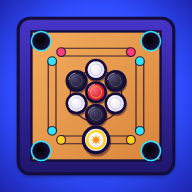
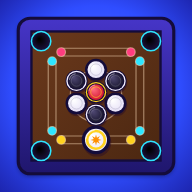
High-contrast board and pieces that read without colour
Switch the playing surface to dark walnut with quiet grain and soft
cream markings, so every piece stands out by brightness: white pucks
go from about 2:1 to 8-11:1 against the board. Black pucks get a bright
rim, the Queen a gold rim and a white crown (it looked like a black puck
to red-green colour-blind players), strikers a white rim, and pockets a
thicker bright ring. Rule messages move lower so they no longer cover
the callouts. HUD puck icon and app icon updated to match.

Claude-Session: https://claude.ai/code/session_01BbTA7rYtcFS9zppY6QcrWK

diff --git a/carrom-duel/game.html b/carrom-duel/game.html
@@ -38,7 +38,7 @@ body::after{content:"";position:fixed;inset:0;z-index:-1;pointer-events:none;bac
 .cnt small{font-size:14px;color:var(--muted)}
 .pk{width:14px;height:14px;border-radius:50%;display:inline-block;border:2.5px solid var(--line)}
 .pk.w{background:#fff}
-.pk.b{background:#2b2744}
+.pk.b{background:#2b2744;box-shadow:inset 0 0 0 2px #f6f1ff}
 .q{width:14px;height:14px;border-radius:50%;border:2.5px solid var(--queen);display:inline-block}
 .q.got{background:var(--queen);border-color:var(--line)}
 .q.pend{animation:blink 1s infinite}
@@ -47,7 +47,7 @@ body::after{content:"";position:fixed;inset:0;z-index:-1;pointer-events:none;bac
 .icon svg{width:26px;height:26px}
 .stage{position:relative;width:var(--w);height:var(--w);flex:none}
 canvas{display:block;width:100%;height:100%;touch-action:none;cursor:crosshair}
-.toast{position:absolute;left:50%;top:17%;transform:translate(-50%,-10px) rotate(-2deg) scale(.9);width:max-content;max-width:86%;padding:8px 18px 7px;border-radius:16px;background:#fff;color:var(--line);border:3px solid var(--line);box-shadow:0 5px 0 var(--line);font-size:19px;line-height:1.15;text-align:center;white-space:pre-line;text-wrap:balance;opacity:0;pointer-events:none;transition:opacity .15s,transform .25s cubic-bezier(.3,1.6,.5,1)}
+.toast{position:absolute;left:50%;top:55%;transform:translate(-50%,-10px) rotate(-2deg) scale(.9);width:max-content;max-width:86%;padding:8px 18px 7px;border-radius:16px;background:#fff;color:var(--line);border:3px solid var(--line);box-shadow:0 5px 0 var(--line);font-size:19px;line-height:1.15;text-align:center;white-space:pre-line;text-wrap:balance;opacity:0;pointer-events:none;transition:opacity .15s,transform .25s cubic-bezier(.3,1.6,.5,1)}
 .toast.show{opacity:1;transform:translate(-50%,0) rotate(-2deg) scale(1)}
 .slider{--acc:var(--you);position:relative;height:48px;touch-action:none;cursor:ew-resize}
 .slider .rail{position:absolute;left:0;right:0;top:50%;height:22px;margin-top:-11px;border-radius:11px;background:#221a6b;border:3px solid var(--line);box-shadow:inset 0 3px 0 rgba(0,0,0,.3);transition:background .2s}
@@ -143,7 +143,7 @@ details li{margin-bottom:6px}
       <p class="tag">You vs the bot. Pot 'em all. No Wi-Fi needed.</p>
       <div class="lbl out">Pick a game</div>
       <div class="tiles" id="segMode">
-        <button data-v="disc" style="--c:var(--cyan)"><svg viewBox="0 0 52 38"><circle cx="18" cy="21" r="12" fill="#fff" stroke="#140c3a" stroke-width="3"/><circle cx="18" cy="21" r="5.5" fill="none" stroke="#140c3a" stroke-opacity=".25" stroke-width="2"/><circle cx="34" cy="16" r="12" fill="#2b2744" stroke="#140c3a" stroke-width="3"/><circle cx="34" cy="16" r="5.5" fill="none" stroke="#fff" stroke-opacity=".3" stroke-width="2"/></svg>Disc Pool</button>
+        <button data-v="disc" style="--c:var(--cyan)"><svg viewBox="0 0 52 38"><circle cx="18" cy="21" r="12" fill="#fff" stroke="#140c3a" stroke-width="3"/><circle cx="18" cy="21" r="5.5" fill="none" stroke="#140c3a" stroke-opacity=".25" stroke-width="2"/><circle cx="34" cy="16" r="12" fill="#f6f1ff" stroke="#140c3a" stroke-width="3"/><circle cx="34" cy="16" r="8.2" fill="#2b2744" stroke="#140c3a" stroke-width="1.5"/><circle cx="34" cy="16" r="4.5" fill="none" stroke="#fff" stroke-opacity=".35" stroke-width="1.6"/></svg>Disc Pool</button>
         <button data-v="carrom" style="--c:var(--bot)"><svg viewBox="0 0 52 38"><circle cx="26" cy="24" r="12" fill="#ff2e4d" stroke="#140c3a" stroke-width="3"/><circle cx="26" cy="24" r="5" fill="#ffd21f" stroke="#140c3a" stroke-width="2"/><path d="M15 12l4.5 5 6.5-9 6.5 9 4.5-5-1.5 7.5h-19z" fill="#ffd21f" stroke="#140c3a" stroke-width="2.4" stroke-linejoin="round"/></svg>Carrom</button>
         <button data-v="free" style="--c:var(--lime)"><svg viewBox="0 0 52 38"><path d="M26 2l4.6 7.6 8.6-2.2-2.2 8.6L44.6 20.6l-7.6 4.6 2.2 8.6-8.6-2.2L26 39l-4.6-7.6-8.6 2.2 2.2-8.6-7.6-4.6 7.6-4.6-2.2-8.6 8.6 2.2z" transform="translate(0 -1) scale(1 .92)" fill="#fff" stroke="#140c3a" stroke-width="2.6" stroke-linejoin="round"/><text x="26" y="23" text-anchor="middle" font-family="Lilita One,system-ui" font-size="13" fill="#140c3a">+20</text></svg>Freestyle</button>
       </div>
@@ -597,31 +597,32 @@ function drawBoard(g){
     g.beginPath();g.arc(x,y,F*.25,0,7);g.fillStyle=c;g.fill();g.lineWidth=3;g.strokeStyle=LINE;g.stroke();
     g.beginPath();g.arc(x-F*.07,y-F*.08,F*.07,0,7);g.fillStyle='rgba(255,255,255,.75)';g.fill();
   }
-  // honey-wood playing surface: darker and warmer than the white pucks so they stand out
+  // dark walnut playing surface with quiet grain: every piece is far lighter than the board
+  // (or carries a light rim), so pieces stand out by brightness alone, not by colour
   g.save();g.beginPath();g.rect(0,0,S,S);g.clip();
-  const sg=g.createLinearGradient(0,0,S,S);sg.addColorStop(0,'#f2ac5e');sg.addColorStop(1,'#d9853b');g.fillStyle=sg;g.fillRect(0,0,S,S);
-  for(let i=0;i<18;i++){const y=R()*S;g.strokeStyle=`rgba(190,98,30,${.06+R()*.07})`;g.lineWidth=10+R()*24;g.beginPath();g.moveTo(0,y);for(let x=0;x<=S;x+=20)g.lineTo(x,y+Math.sin(x*.004+i)*10);g.stroke()}
-  for(let i=0;i<230;i++){
+  const sg=g.createLinearGradient(0,0,S,S);sg.addColorStop(0,'#6b391c');sg.addColorStop(1,'#4b2711');g.fillStyle=sg;g.fillRect(0,0,S,S);
+  for(let i=0;i<16;i++){const y=R()*S;g.strokeStyle=`rgba(30,10,2,${.07+R()*.07})`;g.lineWidth=10+R()*24;g.beginPath();g.moveTo(0,y);for(let x=0;x<=S;x+=20)g.lineTo(x,y+Math.sin(x*.004+i)*10);g.stroke()}
+  for(let i=0;i<150;i++){
     const y=R()*S,amp=R()*3,fq=.003+R()*.02,ph=R()*6;
-    g.strokeStyle=`rgba(140,66,16,${.05+R()*.11})`;g.lineWidth=.5+R()*1.6;g.beginPath();
+    g.strokeStyle=R()<.7?`rgba(25,8,0,${.07+R()*.1})`:`rgba(170,100,55,${.04+R()*.05})`;g.lineWidth=.5+R()*1.4;g.beginPath();
     for(let x=0;x<=S;x+=18){const w=y+Math.sin(x*fq+ph)*amp+Math.sin(x*.002+ph)*5;x?g.lineTo(x,w):g.moveTo(x,w)}
     g.stroke();
   }
-  const lg=g.createRadialGradient(S*.46,S*.38,10,S*.5,S*.5,S*.78);lg.addColorStop(0,'rgba(255,236,190,.2)');lg.addColorStop(1,'rgba(120,40,20,.16)');g.fillStyle=lg;g.fillRect(0,0,S,S);
-  const edge=(x0,y0,x1,y1,rx,ry,rw,rh)=>{const e=g.createLinearGradient(x0,y0,x1,y1);e.addColorStop(0,'rgba(40,12,50,.45)');e.addColorStop(1,'rgba(40,12,50,0)');g.fillStyle=e;g.fillRect(rx,ry,rw,rh)};
+  const lg=g.createRadialGradient(S*.46,S*.38,10,S*.5,S*.5,S*.78);lg.addColorStop(0,'rgba(255,200,150,.08)');lg.addColorStop(1,'rgba(0,0,0,.2)');g.fillStyle=lg;g.fillRect(0,0,S,S);
+  const edge=(x0,y0,x1,y1,rx,ry,rw,rh)=>{const e=g.createLinearGradient(x0,y0,x1,y1);e.addColorStop(0,'rgba(0,0,0,.45)');e.addColorStop(1,'rgba(0,0,0,0)');g.fillStyle=e;g.fillRect(rx,ry,rw,rh)};
   edge(0,0,0,18,0,0,S,18);edge(0,S,0,S-18,0,S-18,S,18);edge(0,0,18,0,0,0,18,S);edge(S,0,S-18,0,S-18,0,18,S);
-  // markings: bold ink lines, base circles in each side's colour
-  const INK='rgba(30,12,44,.85)',SIDE=['#ffd21f','#2ee6ff','#ff3d7f','#2ee6ff'];
-  g.strokeStyle=INK;g.lineWidth=3;g.lineCap='round';g.lineJoin='round';
+  // markings: soft cream lines that sit back behind the pieces; base circles in each side's colour
+  const INK='rgba(255,226,190,.42)',SIDE=['#ffd21f','#2ee6ff','#ff3d7f','#2ee6ff'];
+  g.strokeStyle=INK;g.lineWidth=2.6;g.lineCap='round';g.lineJoin='round';
   for(let r=0;r<4;r++){
     g.save();g.translate(S/2,S/2);g.rotate(r*Math.PI/2);g.translate(-S/2,-S/2);
     const yc=S-BOFF,y1=yc+BGAP,y2=yc-BGAP;
-    g.beginPath();g.moveTo(BMIN,y1);g.lineTo(BMAX,y1);g.moveTo(BMIN,y2);g.lineTo(BMAX,y2);g.strokeStyle=INK;g.lineWidth=3;g.stroke();
+    g.beginPath();g.moveTo(BMIN,y1);g.lineTo(BMAX,y1);g.moveTo(BMIN,y2);g.lineTo(BMAX,y2);g.strokeStyle=INK;g.lineWidth=2.6;g.stroke();
     for(const x of [BMIN,BMAX]){
-      g.beginPath();g.arc(x,yc,BGAP,0,7);g.fillStyle=SIDE[r];g.fill();g.strokeStyle=LINE;g.lineWidth=3;g.stroke();
-      g.beginPath();g.arc(x,yc,12,0,7);g.strokeStyle='rgba(255,255,255,.75)';g.lineWidth=2.2;g.stroke();
+      g.beginPath();g.arc(x,yc,BGAP,0,7);g.fillStyle=SIDE[r];g.globalAlpha=.8;g.fill();g.globalAlpha=1;g.strokeStyle=LINE;g.lineWidth=3;g.stroke();
+      g.beginPath();g.arc(x,yc,12,0,7);g.strokeStyle='rgba(20,12,58,.5)';g.lineWidth=2.2;g.stroke();
     }
-    g.strokeStyle=INK;g.lineWidth=3;
+    g.strokeStyle=INK;g.lineWidth=2.6;
     const ux=Math.SQRT1_2,uy=-Math.SQRT1_2,ax=ux*112,ay=S+uy*112,bx=ux*335,by=S+uy*335;
     g.beginPath();g.moveTo(ax,ay);g.lineTo(bx,by);g.stroke();
     g.beginPath();g.moveTo(ax+ux*16+uy*10,ay+uy*16-ux*10);g.lineTo(ax,ay);g.lineTo(ax+ux*16-uy*10,ay+uy*16+ux*10);g.stroke();
@@ -629,14 +630,14 @@ function drawBoard(g){
     g.restore();
   }
   const c=S/2;
-  g.beginPath();g.arc(c,c,128,0,7);g.lineWidth=3.5;g.strokeStyle=INK;g.stroke();
-  g.beginPath();g.arc(c,c,120,0,7);g.lineWidth=1.6;g.stroke();
+  g.beginPath();g.arc(c,c,128,0,7);g.lineWidth=3;g.strokeStyle=INK;g.stroke();
+  g.beginPath();g.arc(c,c,120,0,7);g.lineWidth=1.4;g.stroke();
   for(let i=0;i<12;i++){
     const a0=i*Math.PI/6,a1=a0+Math.PI/12,a2=a0+Math.PI/6,r0=26,r1=112;
     g.beginPath();g.moveTo(c+Math.cos(a0)*r0,c+Math.sin(a0)*r0);g.lineTo(c+Math.cos(a1)*r1,c+Math.sin(a1)*r1);g.lineTo(c+Math.cos(a2)*r0,c+Math.sin(a2)*r0);g.closePath();
-    g.fillStyle=i%2?'rgba(255,61,127,.32)':'rgba(255,255,255,.4)';g.fill();g.lineWidth=1.6;g.strokeStyle=INK;g.stroke();
+    g.fillStyle=i%2?'rgba(255,61,127,.10)':'rgba(255,226,190,.06)';g.fill();g.lineWidth=1.4;g.strokeStyle='rgba(255,226,190,.3)';g.stroke();
   }
-  g.beginPath();g.arc(c,c,PR,0,7);g.fillStyle='#ff2e4d';g.fill();g.lineWidth=3;g.strokeStyle=LINE;g.stroke();
+  g.beginPath();g.arc(c,c,PR*.7,0,7);g.strokeStyle=INK;g.lineWidth=2.2;g.stroke();
   g.beginPath();g.rect(0,0,S,S);g.lineWidth=5;g.strokeStyle=LINE;g.stroke();
   g.restore();
   // pockets with a neon rim
@@ -648,36 +649,44 @@ function drawBoard(g){
     for(let k=-50;k<=50;k+=7){g.beginPath();g.moveTo(px+k-50,py-50);g.lineTo(px+k+50,py+50);g.stroke();g.beginPath();g.moveTo(px+k+50,py-50);g.lineTo(px+k-50,py+50);g.stroke()}
     g.restore();
     g.beginPath();g.arc(px,py,PK+1,0,7);g.lineWidth=4;g.strokeStyle=LINE;g.stroke();
-    g.beginPath();g.arc(px,py,PK+4.5,0,7);g.lineWidth=3;g.strokeStyle='rgba(46,230,255,.9)';g.stroke();
+    g.beginPath();g.arc(px,py,PK+5,0,7);g.lineWidth=4.5;g.strokeStyle='#2ee6ff';g.stroke();
   }
 }
+// Every piece reads by brightness, never by colour alone: white pucks are bright with a thick dark outline,
+// black pucks carry a bright rim, the Queen has a gold rim and a crown, strikers a white rim and a symbol.
 const PAL={
-  w:{a:'#ffffff',b:'#e4def6',g:'rgba(20,12,58,.22)'},
-  b:{a:'#4d4670',b:'#16132a',g:'rgba(255,255,255,.24)'},
-  q:{a:'#ff6b7d',b:'#d0102c',g:'#ffd21f'},
-  s0:{a:'#ffffff',b:'#ebe6f8',g:'#ffd21f',star:'#ff8f00'},
-  s1:{a:'#ffffff',b:'#ebe6f8',g:'#ff3d7f',star:'#c2185b'}};
+  w:{a:'#ffffff',b:'#e9e5f7',g:'rgba(20,12,58,.28)'},
+  b:{a:'#4d4670',b:'#16132a',g:'rgba(255,255,255,.3)',rim:'#f6f1ff'},
+  q:{a:'#ff6b7d',b:'#d0102c',g:'#ffd21f',rim:'#ffd21f'},
+  s0:{a:'#ffffff',b:'#ebe6f8',g:'#ffd21f',star:'#ff8f00',rim:'#ffffff'},
+  s1:{a:'#ffffff',b:'#ebe6f8',g:'#ff3d7f',star:'#c2185b',rim:'#ffffff'}};
 function sprite(kind){
   const r=kind[0]==='s'?SR:PR,pad=7,size=Math.ceil((r+pad)*2*K),c=document.createElement('canvas');
-  c.width=c.height=size;const x=c.getContext('2d'),p=PAL[kind],LINE='#140c3a',ri=r-Math.max(2.8,r*.15);
+  c.width=c.height=size;const x=c.getContext('2d'),p=PAL[kind],LINE='#140c3a',ow=Math.max(1.4,r*.07);
   x.scale(size/((r+pad)*2),size/((r+pad)*2));x.translate(r+pad,r+pad);
-  x.beginPath();x.arc(1.3,3.4,r,0,7);x.fillStyle='rgba(40,12,40,.45)';x.fill();
+  x.beginPath();x.arc(1.3,3.4,r,0,7);x.fillStyle='rgba(0,0,0,.5)';x.fill();
   x.beginPath();x.arc(0,0,r,0,7);x.fillStyle=LINE;x.fill();
+  let ri;
+  if(p.rim){x.beginPath();x.arc(0,0,r-ow,0,7);x.fillStyle=p.rim;x.fill();ri=r-ow-r*.17;x.beginPath();x.arc(0,0,ri+.9,0,7);x.fillStyle=LINE;x.fill()}
+  else ri=r-Math.max(3.2,r*.17);
   const gr=x.createRadialGradient(-ri*.35,-ri*.4,ri*.1,0,0,ri);gr.addColorStop(0,p.a);gr.addColorStop(1,p.b);
   x.beginPath();x.arc(0,0,ri,0,7);x.fillStyle=gr;x.fill();
   if(kind[0]==='s'){
-    x.beginPath();x.arc(0,0,ri*.74,0,7);x.lineWidth=ri*.3;x.strokeStyle=p.g;x.stroke();
+    x.beginPath();x.arc(0,0,ri*.72,0,7);x.lineWidth=ri*.32;x.strokeStyle=p.g;x.stroke();
     x.lineWidth=1.3;x.strokeStyle=LINE;
-    x.beginPath();x.arc(0,0,ri*.89,0,7);x.stroke();x.beginPath();x.arc(0,0,ri*.59,0,7);x.stroke();
+    x.beginPath();x.arc(0,0,ri*.88,0,7);x.stroke();x.beginPath();x.arc(0,0,ri*.56,0,7);x.stroke();
     x.beginPath();
     if(kind==='s0')for(let i=0;i<10;i++){const a=i*Math.PI/5-Math.PI/2,q=i%2?ri*.2:ri*.46;x.lineTo(Math.cos(a)*q,Math.sin(a)*q)}
     else [[.12,-.5],[-.26,.07],[-.02,.07],[-.13,.5],[.26,-.07],[.02,-.07]].forEach(([a,b])=>x.lineTo(a*ri,b*ri));
     x.closePath();x.fillStyle=p.star;x.fill();x.lineWidth=1.1;x.stroke();
+  }else if(kind==='q'){
+    // crown: tells the Queen apart even when red looks dark
+    x.beginPath();[[-.62,.36],[-.7,-.3],[-.33,-.02],[0,-.5],[.33,-.02],[.7,-.3],[.62,.36]].forEach(([a,b],i)=>i?x.lineTo(a*ri,b*ri):x.moveTo(a*ri,b*ri));x.closePath();
+    x.fillStyle='#fff';x.fill();x.lineJoin='round';x.lineWidth=1.3;x.strokeStyle=LINE;x.stroke();
   }else{
-    x.strokeStyle=p.g;x.lineWidth=ri*.09;x.beginPath();x.arc(0,0,ri*.6,0,7);x.stroke();
-    if(kind==='q'){x.lineWidth=ri*.14;x.beginPath();x.arc(0,0,ri*.6,0,7);x.stroke();x.beginPath();x.arc(0,0,ri*.22,0,7);x.fillStyle=p.g;x.fill()}
+    x.strokeStyle=p.g;x.lineWidth=ri*.1;x.beginPath();x.arc(0,0,ri*.58,0,7);x.stroke();
   }
-  x.beginPath();x.arc(0,0,ri*.8,Math.PI*1.06,Math.PI*1.44);x.lineWidth=ri*.12;x.lineCap='round';x.strokeStyle='rgba(255,255,255,.75)';x.stroke();
+  if(kind!=='q'){x.beginPath();x.arc(0,0,ri*.8,Math.PI*1.06,Math.PI*1.44);x.lineWidth=ri*.12;x.lineCap='round';x.strokeStyle='rgba(255,255,255,.75)';x.stroke()}
   return {c,half:r+pad};
 }
 function layout(){
@@ -1008,7 +1017,7 @@ function draw(t){
     const fx=clamp(f.x,44,S-44),fy=clamp(f.y,44,S-44)-e*44;ctx.lineWidth=9;ctx.strokeStyle='#140c3a';ctx.strokeText(f.t,fx,fy);ctx.fillStyle=f.c;ctx.fillText(f.t,fx,fy);ctx.restore();return true});
   calls=calls.filter(c=>{const e=(t-c.t0)/1000;if(e>=1.35)return false;
     const sc=RM?1:e<.24?Math.max(.01,easeBack(e/.24)):1,al=e>1.05?1-(e-1.05)/.3:1;
-    ctx.save();ctx.globalAlpha=al;ctx.translate(S/2,S*.37-(e>1.05?(e-1.05)*50:0));ctx.rotate(-.06);ctx.scale(sc,sc);
+    ctx.save();ctx.globalAlpha=al;ctx.translate(S/2,S*.3-(e>1.05?(e-1.05)*50:0));ctx.rotate(-.06);ctx.scale(sc,sc);
     ctx.font=`${c.size}px "Lilita One","Baloo 2",system-ui,sans-serif`;
     ctx.lineWidth=c.size*.26;ctx.strokeStyle='#140c3a';ctx.strokeText(c.text,0,c.size*.08);ctx.strokeText(c.text,0,0);
     ctx.fillStyle=c.color;ctx.fillText(c.text,0,0);ctx.restore();return true});

diff --git a/carrom-duel/index.html b/carrom-duel/index.html
@@ -50,7 +50,7 @@ body::after{content:"";position:fixed;inset:0;z-index:-1;pointer-events:none;bac
 .cnt small{font-size:14px;color:var(--muted)}
 .pk{width:14px;height:14px;border-radius:50%;display:inline-block;border:2.5px solid var(--line)}
 .pk.w{background:#fff}
-.pk.b{background:#2b2744}
+.pk.b{background:#2b2744;box-shadow:inset 0 0 0 2px #f6f1ff}
 .q{width:14px;height:14px;border-radius:50%;border:2.5px solid var(--queen);display:inline-block}
 .q.got{background:var(--queen);border-color:var(--line)}
 .q.pend{animation:blink 1s infinite}
@@ -59,7 +59,7 @@ body::after{content:"";position:fixed;inset:0;z-index:-1;pointer-events:none;bac
 .icon svg{width:26px;height:26px}
 .stage{position:relative;width:var(--w);height:var(--w);flex:none}
 canvas{display:block;width:100%;height:100%;touch-action:none;cursor:crosshair}
-.toast{position:absolute;left:50%;top:17%;transform:translate(-50%,-10px) rotate(-2deg) scale(.9);width:max-content;max-width:86%;padding:8px 18px 7px;border-radius:16px;background:#fff;color:var(--line);border:3px solid var(--line);box-shadow:0 5px 0 var(--line);font-size:19px;line-height:1.15;text-align:center;white-space:pre-line;text-wrap:balance;opacity:0;pointer-events:none;transition:opacity .15s,transform .25s cubic-bezier(.3,1.6,.5,1)}
+.toast{position:absolute;left:50%;top:55%;transform:translate(-50%,-10px) rotate(-2deg) scale(.9);width:max-content;max-width:86%;padding:8px 18px 7px;border-radius:16px;background:#fff;color:var(--line);border:3px solid var(--line);box-shadow:0 5px 0 var(--line);font-size:19px;line-height:1.15;text-align:center;white-space:pre-line;text-wrap:balance;opacity:0;pointer-events:none;transition:opacity .15s,transform .25s cubic-bezier(.3,1.6,.5,1)}
 .toast.show{opacity:1;transform:translate(-50%,0) rotate(-2deg) scale(1)}
 .slider{--acc:var(--you);position:relative;height:48px;touch-action:none;cursor:ew-resize}
 .slider .rail{position:absolute;left:0;right:0;top:50%;height:22px;margin-top:-11px;border-radius:11px;background:#221a6b;border:3px solid var(--line);box-shadow:inset 0 3px 0 rgba(0,0,0,.3);transition:background .2s}
@@ -156,7 +156,7 @@ details li{margin-bottom:6px}
       <p class="tag">You vs the bot. Pot 'em all. No Wi-Fi needed.</p>
       <div class="lbl out">Pick a game</div>
       <div class="tiles" id="segMode">
-        <button data-v="disc" style="--c:var(--cyan)"><svg viewBox="0 0 52 38"><circle cx="18" cy="21" r="12" fill="#fff" stroke="#140c3a" stroke-width="3"/><circle cx="18" cy="21" r="5.5" fill="none" stroke="#140c3a" stroke-opacity=".25" stroke-width="2"/><circle cx="34" cy="16" r="12" fill="#2b2744" stroke="#140c3a" stroke-width="3"/><circle cx="34" cy="16" r="5.5" fill="none" stroke="#fff" stroke-opacity=".3" stroke-width="2"/></svg>Disc Pool</button>
+        <button data-v="disc" style="--c:var(--cyan)"><svg viewBox="0 0 52 38"><circle cx="18" cy="21" r="12" fill="#fff" stroke="#140c3a" stroke-width="3"/><circle cx="18" cy="21" r="5.5" fill="none" stroke="#140c3a" stroke-opacity=".25" stroke-width="2"/><circle cx="34" cy="16" r="12" fill="#f6f1ff" stroke="#140c3a" stroke-width="3"/><circle cx="34" cy="16" r="8.2" fill="#2b2744" stroke="#140c3a" stroke-width="1.5"/><circle cx="34" cy="16" r="4.5" fill="none" stroke="#fff" stroke-opacity=".35" stroke-width="1.6"/></svg>Disc Pool</button>
         <button data-v="carrom" style="--c:var(--bot)"><svg viewBox="0 0 52 38"><circle cx="26" cy="24" r="12" fill="#ff2e4d" stroke="#140c3a" stroke-width="3"/><circle cx="26" cy="24" r="5" fill="#ffd21f" stroke="#140c3a" stroke-width="2"/><path d="M15 12l4.5 5 6.5-9 6.5 9 4.5-5-1.5 7.5h-19z" fill="#ffd21f" stroke="#140c3a" stroke-width="2.4" stroke-linejoin="round"/></svg>Carrom</button>
         <button data-v="free" style="--c:var(--lime)"><svg viewBox="0 0 52 38"><path d="M26 2l4.6 7.6 8.6-2.2-2.2 8.6L44.6 20.6l-7.6 4.6 2.2 8.6-8.6-2.2L26 39l-4.6-7.6-8.6 2.2 2.2-8.6-7.6-4.6 7.6-4.6-2.2-8.6 8.6 2.2z" transform="translate(0 -1) scale(1 .92)" fill="#fff" stroke="#140c3a" stroke-width="2.6" stroke-linejoin="round"/><text x="26" y="23" text-anchor="middle" font-family="Lilita One,system-ui" font-size="13" fill="#140c3a">+20</text></svg>Freestyle</button>
       </div>
@@ -610,31 +610,32 @@ function drawBoard(g){
     g.beginPath();g.arc(x,y,F*.25,0,7);g.fillStyle=c;g.fill();g.lineWidth=3;g.strokeStyle=LINE;g.stroke();
     g.beginPath();g.arc(x-F*.07,y-F*.08,F*.07,0,7);g.fillStyle='rgba(255,255,255,.75)';g.fill();
   }
-  // honey-wood playing surface: darker and warmer than the white pucks so they stand out
+  // dark walnut playing surface with quiet grain: every piece is far lighter than the board
+  // (or carries a light rim), so pieces stand out by brightness alone, not by colour
   g.save();g.beginPath();g.rect(0,0,S,S);g.clip();
-  const sg=g.createLinearGradient(0,0,S,S);sg.addColorStop(0,'#f2ac5e');sg.addColorStop(1,'#d9853b');g.fillStyle=sg;g.fillRect(0,0,S,S);
-  for(let i=0;i<18;i++){const y=R()*S;g.strokeStyle=`rgba(190,98,30,${.06+R()*.07})`;g.lineWidth=10+R()*24;g.beginPath();g.moveTo(0,y);for(let x=0;x<=S;x+=20)g.lineTo(x,y+Math.sin(x*.004+i)*10);g.stroke()}
-  for(let i=0;i<230;i++){
+  const sg=g.createLinearGradient(0,0,S,S);sg.addColorStop(0,'#6b391c');sg.addColorStop(1,'#4b2711');g.fillStyle=sg;g.fillRect(0,0,S,S);
+  for(let i=0;i<16;i++){const y=R()*S;g.strokeStyle=`rgba(30,10,2,${.07+R()*.07})`;g.lineWidth=10+R()*24;g.beginPath();g.moveTo(0,y);for(let x=0;x<=S;x+=20)g.lineTo(x,y+Math.sin(x*.004+i)*10);g.stroke()}
+  for(let i=0;i<150;i++){
     const y=R()*S,amp=R()*3,fq=.003+R()*.02,ph=R()*6;
-    g.strokeStyle=`rgba(140,66,16,${.05+R()*.11})`;g.lineWidth=.5+R()*1.6;g.beginPath();
+    g.strokeStyle=R()<.7?`rgba(25,8,0,${.07+R()*.1})`:`rgba(170,100,55,${.04+R()*.05})`;g.lineWidth=.5+R()*1.4;g.beginPath();
     for(let x=0;x<=S;x+=18){const w=y+Math.sin(x*fq+ph)*amp+Math.sin(x*.002+ph)*5;x?g.lineTo(x,w):g.moveTo(x,w)}
     g.stroke();
   }
-  const lg=g.createRadialGradient(S*.46,S*.38,10,S*.5,S*.5,S*.78);lg.addColorStop(0,'rgba(255,236,190,.2)');lg.addColorStop(1,'rgba(120,40,20,.16)');g.fillStyle=lg;g.fillRect(0,0,S,S);
-  const edge=(x0,y0,x1,y1,rx,ry,rw,rh)=>{const e=g.createLinearGradient(x0,y0,x1,y1);e.addColorStop(0,'rgba(40,12,50,.45)');e.addColorStop(1,'rgba(40,12,50,0)');g.fillStyle=e;g.fillRect(rx,ry,rw,rh)};
+  const lg=g.createRadialGradient(S*.46,S*.38,10,S*.5,S*.5,S*.78);lg.addColorStop(0,'rgba(255,200,150,.08)');lg.addColorStop(1,'rgba(0,0,0,.2)');g.fillStyle=lg;g.fillRect(0,0,S,S);
+  const edge=(x0,y0,x1,y1,rx,ry,rw,rh)=>{const e=g.createLinearGradient(x0,y0,x1,y1);e.addColorStop(0,'rgba(0,0,0,.45)');e.addColorStop(1,'rgba(0,0,0,0)');g.fillStyle=e;g.fillRect(rx,ry,rw,rh)};
   edge(0,0,0,18,0,0,S,18);edge(0,S,0,S-18,0,S-18,S,18);edge(0,0,18,0,0,0,18,S);edge(S,0,S-18,0,S-18,0,18,S);
-  // markings: bold ink lines, base circles in each side's colour
-  const INK='rgba(30,12,44,.85)',SIDE=['#ffd21f','#2ee6ff','#ff3d7f','#2ee6ff'];
-  g.strokeStyle=INK;g.lineWidth=3;g.lineCap='round';g.lineJoin='round';
+  // markings: soft cream lines that sit back behind the pieces; base circles in each side's colour
+  const INK='rgba(255,226,190,.42)',SIDE=['#ffd21f','#2ee6ff','#ff3d7f','#2ee6ff'];
+  g.strokeStyle=INK;g.lineWidth=2.6;g.lineCap='round';g.lineJoin='round';
   for(let r=0;r<4;r++){
     g.save();g.translate(S/2,S/2);g.rotate(r*Math.PI/2);g.translate(-S/2,-S/2);
     const yc=S-BOFF,y1=yc+BGAP,y2=yc-BGAP;
-    g.beginPath();g.moveTo(BMIN,y1);g.lineTo(BMAX,y1);g.moveTo(BMIN,y2);g.lineTo(BMAX,y2);g.strokeStyle=INK;g.lineWidth=3;g.stroke();
+    g.beginPath();g.moveTo(BMIN,y1);g.lineTo(BMAX,y1);g.moveTo(BMIN,y2);g.lineTo(BMAX,y2);g.strokeStyle=INK;g.lineWidth=2.6;g.stroke();
     for(const x of [BMIN,BMAX]){
-      g.beginPath();g.arc(x,yc,BGAP,0,7);g.fillStyle=SIDE[r];g.fill();g.strokeStyle=LINE;g.lineWidth=3;g.stroke();
-      g.beginPath();g.arc(x,yc,12,0,7);g.strokeStyle='rgba(255,255,255,.75)';g.lineWidth=2.2;g.stroke();
+      g.beginPath();g.arc(x,yc,BGAP,0,7);g.fillStyle=SIDE[r];g.globalAlpha=.8;g.fill();g.globalAlpha=1;g.strokeStyle=LINE;g.lineWidth=3;g.stroke();
+      g.beginPath();g.arc(x,yc,12,0,7);g.strokeStyle='rgba(20,12,58,.5)';g.lineWidth=2.2;g.stroke();
     }
-    g.strokeStyle=INK;g.lineWidth=3;
+    g.strokeStyle=INK;g.lineWidth=2.6;
     const ux=Math.SQRT1_2,uy=-Math.SQRT1_2,ax=ux*112,ay=S+uy*112,bx=ux*335,by=S+uy*335;
     g.beginPath();g.moveTo(ax,ay);g.lineTo(bx,by);g.stroke();
     g.beginPath();g.moveTo(ax+ux*16+uy*10,ay+uy*16-ux*10);g.lineTo(ax,ay);g.lineTo(ax+ux*16-uy*10,ay+uy*16+ux*10);g.stroke();
@@ -642,14 +643,14 @@ function drawBoard(g){
     g.restore();
   }
   const c=S/2;
-  g.beginPath();g.arc(c,c,128,0,7);g.lineWidth=3.5;g.strokeStyle=INK;g.stroke();
-  g.beginPath();g.arc(c,c,120,0,7);g.lineWidth=1.6;g.stroke();
+  g.beginPath();g.arc(c,c,128,0,7);g.lineWidth=3;g.strokeStyle=INK;g.stroke();
+  g.beginPath();g.arc(c,c,120,0,7);g.lineWidth=1.4;g.stroke();
   for(let i=0;i<12;i++){
     const a0=i*Math.PI/6,a1=a0+Math.PI/12,a2=a0+Math.PI/6,r0=26,r1=112;
     g.beginPath();g.moveTo(c+Math.cos(a0)*r0,c+Math.sin(a0)*r0);g.lineTo(c+Math.cos(a1)*r1,c+Math.sin(a1)*r1);g.lineTo(c+Math.cos(a2)*r0,c+Math.sin(a2)*r0);g.closePath();
-    g.fillStyle=i%2?'rgba(255,61,127,.32)':'rgba(255,255,255,.4)';g.fill();g.lineWidth=1.6;g.strokeStyle=INK;g.stroke();
+    g.fillStyle=i%2?'rgba(255,61,127,.10)':'rgba(255,226,190,.06)';g.fill();g.lineWidth=1.4;g.strokeStyle='rgba(255,226,190,.3)';g.stroke();
   }
-  g.beginPath();g.arc(c,c,PR,0,7);g.fillStyle='#ff2e4d';g.fill();g.lineWidth=3;g.strokeStyle=LINE;g.stroke();
+  g.beginPath();g.arc(c,c,PR*.7,0,7);g.strokeStyle=INK;g.lineWidth=2.2;g.stroke();
   g.beginPath();g.rect(0,0,S,S);g.lineWidth=5;g.strokeStyle=LINE;g.stroke();
   g.restore();
   // pockets with a neon rim
@@ -661,36 +662,44 @@ function drawBoard(g){
     for(let k=-50;k<=50;k+=7){g.beginPath();g.moveTo(px+k-50,py-50);g.lineTo(px+k+50,py+50);g.stroke();g.beginPath();g.moveTo(px+k+50,py-50);g.lineTo(px+k-50,py+50);g.stroke()}
     g.restore();
     g.beginPath();g.arc(px,py,PK+1,0,7);g.lineWidth=4;g.strokeStyle=LINE;g.stroke();
-    g.beginPath();g.arc(px,py,PK+4.5,0,7);g.lineWidth=3;g.strokeStyle='rgba(46,230,255,.9)';g.stroke();
+    g.beginPath();g.arc(px,py,PK+5,0,7);g.lineWidth=4.5;g.strokeStyle='#2ee6ff';g.stroke();
   }
 }
+// Every piece reads by brightness, never by colour alone: white pucks are bright with a thick dark outline,
+// black pucks carry a bright rim, the Queen has a gold rim and a crown, strikers a white rim and a symbol.
 const PAL={
-  w:{a:'#ffffff',b:'#e4def6',g:'rgba(20,12,58,.22)'},
-  b:{a:'#4d4670',b:'#16132a',g:'rgba(255,255,255,.24)'},
-  q:{a:'#ff6b7d',b:'#d0102c',g:'#ffd21f'},
-  s0:{a:'#ffffff',b:'#ebe6f8',g:'#ffd21f',star:'#ff8f00'},
-  s1:{a:'#ffffff',b:'#ebe6f8',g:'#ff3d7f',star:'#c2185b'}};
+  w:{a:'#ffffff',b:'#e9e5f7',g:'rgba(20,12,58,.28)'},
+  b:{a:'#4d4670',b:'#16132a',g:'rgba(255,255,255,.3)',rim:'#f6f1ff'},
+  q:{a:'#ff6b7d',b:'#d0102c',g:'#ffd21f',rim:'#ffd21f'},
+  s0:{a:'#ffffff',b:'#ebe6f8',g:'#ffd21f',star:'#ff8f00',rim:'#ffffff'},
+  s1:{a:'#ffffff',b:'#ebe6f8',g:'#ff3d7f',star:'#c2185b',rim:'#ffffff'}};
 function sprite(kind){
   const r=kind[0]==='s'?SR:PR,pad=7,size=Math.ceil((r+pad)*2*K),c=document.createElement('canvas');
-  c.width=c.height=size;const x=c.getContext('2d'),p=PAL[kind],LINE='#140c3a',ri=r-Math.max(2.8,r*.15);
+  c.width=c.height=size;const x=c.getContext('2d'),p=PAL[kind],LINE='#140c3a',ow=Math.max(1.4,r*.07);
   x.scale(size/((r+pad)*2),size/((r+pad)*2));x.translate(r+pad,r+pad);
-  x.beginPath();x.arc(1.3,3.4,r,0,7);x.fillStyle='rgba(40,12,40,.45)';x.fill();
+  x.beginPath();x.arc(1.3,3.4,r,0,7);x.fillStyle='rgba(0,0,0,.5)';x.fill();
   x.beginPath();x.arc(0,0,r,0,7);x.fillStyle=LINE;x.fill();
+  let ri;
+  if(p.rim){x.beginPath();x.arc(0,0,r-ow,0,7);x.fillStyle=p.rim;x.fill();ri=r-ow-r*.17;x.beginPath();x.arc(0,0,ri+.9,0,7);x.fillStyle=LINE;x.fill()}
+  else ri=r-Math.max(3.2,r*.17);
   const gr=x.createRadialGradient(-ri*.35,-ri*.4,ri*.1,0,0,ri);gr.addColorStop(0,p.a);gr.addColorStop(1,p.b);
   x.beginPath();x.arc(0,0,ri,0,7);x.fillStyle=gr;x.fill();
   if(kind[0]==='s'){
-    x.beginPath();x.arc(0,0,ri*.74,0,7);x.lineWidth=ri*.3;x.strokeStyle=p.g;x.stroke();
+    x.beginPath();x.arc(0,0,ri*.72,0,7);x.lineWidth=ri*.32;x.strokeStyle=p.g;x.stroke();
     x.lineWidth=1.3;x.strokeStyle=LINE;
-    x.beginPath();x.arc(0,0,ri*.89,0,7);x.stroke();x.beginPath();x.arc(0,0,ri*.59,0,7);x.stroke();
+    x.beginPath();x.arc(0,0,ri*.88,0,7);x.stroke();x.beginPath();x.arc(0,0,ri*.56,0,7);x.stroke();
     x.beginPath();
     if(kind==='s0')for(let i=0;i<10;i++){const a=i*Math.PI/5-Math.PI/2,q=i%2?ri*.2:ri*.46;x.lineTo(Math.cos(a)*q,Math.sin(a)*q)}
     else [[.12,-.5],[-.26,.07],[-.02,.07],[-.13,.5],[.26,-.07],[.02,-.07]].forEach(([a,b])=>x.lineTo(a*ri,b*ri));
     x.closePath();x.fillStyle=p.star;x.fill();x.lineWidth=1.1;x.stroke();
+  }else if(kind==='q'){
+    // crown: tells the Queen apart even when red looks dark
+    x.beginPath();[[-.62,.36],[-.7,-.3],[-.33,-.02],[0,-.5],[.33,-.02],[.7,-.3],[.62,.36]].forEach(([a,b],i)=>i?x.lineTo(a*ri,b*ri):x.moveTo(a*ri,b*ri));x.closePath();
+    x.fillStyle='#fff';x.fill();x.lineJoin='round';x.lineWidth=1.3;x.strokeStyle=LINE;x.stroke();
   }else{
-    x.strokeStyle=p.g;x.lineWidth=ri*.09;x.beginPath();x.arc(0,0,ri*.6,0,7);x.stroke();
-    if(kind==='q'){x.lineWidth=ri*.14;x.beginPath();x.arc(0,0,ri*.6,0,7);x.stroke();x.beginPath();x.arc(0,0,ri*.22,0,7);x.fillStyle=p.g;x.fill()}
+    x.strokeStyle=p.g;x.lineWidth=ri*.1;x.beginPath();x.arc(0,0,ri*.58,0,7);x.stroke();
   }
-  x.beginPath();x.arc(0,0,ri*.8,Math.PI*1.06,Math.PI*1.44);x.lineWidth=ri*.12;x.lineCap='round';x.strokeStyle='rgba(255,255,255,.75)';x.stroke();
+  if(kind!=='q'){x.beginPath();x.arc(0,0,ri*.8,Math.PI*1.06,Math.PI*1.44);x.lineWidth=ri*.12;x.lineCap='round';x.strokeStyle='rgba(255,255,255,.75)';x.stroke()}
   return {c,half:r+pad};
 }
 function layout(){
@@ -1021,7 +1030,7 @@ function draw(t){
     const fx=clamp(f.x,44,S-44),fy=clamp(f.y,44,S-44)-e*44;ctx.lineWidth=9;ctx.strokeStyle='#140c3a';ctx.strokeText(f.t,fx,fy);ctx.fillStyle=f.c;ctx.fillText(f.t,fx,fy);ctx.restore();return true});
   calls=calls.filter(c=>{const e=(t-c.t0)/1000;if(e>=1.35)return false;
     const sc=RM?1:e<.24?Math.max(.01,easeBack(e/.24)):1,al=e>1.05?1-(e-1.05)/.3:1;
-    ctx.save();ctx.globalAlpha=al;ctx.translate(S/2,S*.37-(e>1.05?(e-1.05)*50:0));ctx.rotate(-.06);ctx.scale(sc,sc);
+    ctx.save();ctx.globalAlpha=al;ctx.translate(S/2,S*.3-(e>1.05?(e-1.05)*50:0));ctx.rotate(-.06);ctx.scale(sc,sc);
     ctx.font=`${c.size}px "Lilita One","Baloo 2",system-ui,sans-serif`;
     ctx.lineWidth=c.size*.26;ctx.strokeStyle='#140c3a';ctx.strokeText(c.text,0,c.size*.08);ctx.strokeText(c.text,0,0);
     ctx.fillStyle=c.color;ctx.fillText(c.text,0,0);ctx.restore();return true});

diff --git a/carrom-duel/sw.js b/carrom-duel/sw.js
@@ -1,6 +1,6 @@
 // Generated by build.py. Keeps every app file on the device so the game opens with no connection,
 // and refreshes them in the background whenever it is online. A new build gets a new cache name.
-const CACHE='carrom-duel-8f2b24c377f4';
+const CACHE='carrom-duel-9036d7140b09';
 const ASSETS=["./", "index.html", "manifest.webmanifest", "app/baloo2-latin.woff2", "app/lilita-one-latin.woff2", "app/icon-32.png", "app/icon-180.png", "app/icon-192.png", "app/icon-512.png", "app/icon-maskable-512.png"];
 self.addEventListener('install',e=>{e.waitUntil(caches.open(CACHE).then(c=>c.addAll(ASSETS)).then(()=>self.skipWaiting()))});
 self.addEventListener('activate',e=>{e.waitUntil(caches.keys().then(ks=>Promise.all(ks.filter(k=>k.startsWith('carrom-duel-')&&k!==CACHE).map(k=>caches.delete(k)))).then(()=>self.clients.claim()))});

diff --git a/README.md b/README.md
@@ -5,7 +5,8 @@ A carrom board game you play against the computer, in the browser, with no inter
 - **Install it as an app:** it's an installable web app (PWA) with its own icon. It opens full screen and works with no connection once installed (see below).
 - **Modes:** Disc Pool (race to pot your 9 pucks), Carrom (the Queen must be potted and covered before your last puck), Freestyle (points: white 20, black 10, Queen 50, first to 120).
 - **The bot:** Chill Bot (easy), Pro Bot (medium) or Beast Bot (hard). It plans each shot by simulating candidate shots with the same physics the board uses, then adds aiming error to match its level.
-- **Look and feel:** a loud, playful style for younger players: electric-blue ground, honey-wood board in a chunky indigo frame, sticker-outlined pieces (so white pucks stand out against the wood), combo callouts, pocket bursts, screen shake, confetti and vibration on Android.
+- **Look and feel:** a loud, playful style for younger players: electric-blue ground, dark walnut board in a chunky indigo frame, sticker-outlined pieces, combo callouts, pocket bursts, screen shake, confetti and vibration on Android.
+- **Easy to see, including with colour blindness:** pieces stand out from the board by brightness, not colour. White pucks are 8–11:1 against the board, black pucks carry a bright rim, the Queen has a gold rim and a crown, strikers a white rim and a symbol, and pockets a bright ring. Checked under protanopia, deuteranopia, tritanopia and greyscale simulations.
 - **Controls:** slide the striker with the bar under the board (or drag it on the board), then pull back from the striker, or from anywhere on the board, and let go to shoot. The power arrow grows and turns red as you pull harder; a straight dotted line shows the direction.
 - **Turn timer:** 15 seconds a shot, shown as a ring around your picture (can be switched off in the game menu).
 - **Feel:** board proportions, striker weight, glide and the aiming display were matched to a screen recording of Carrom Pool's practice mode, with the board's own look kept original.
